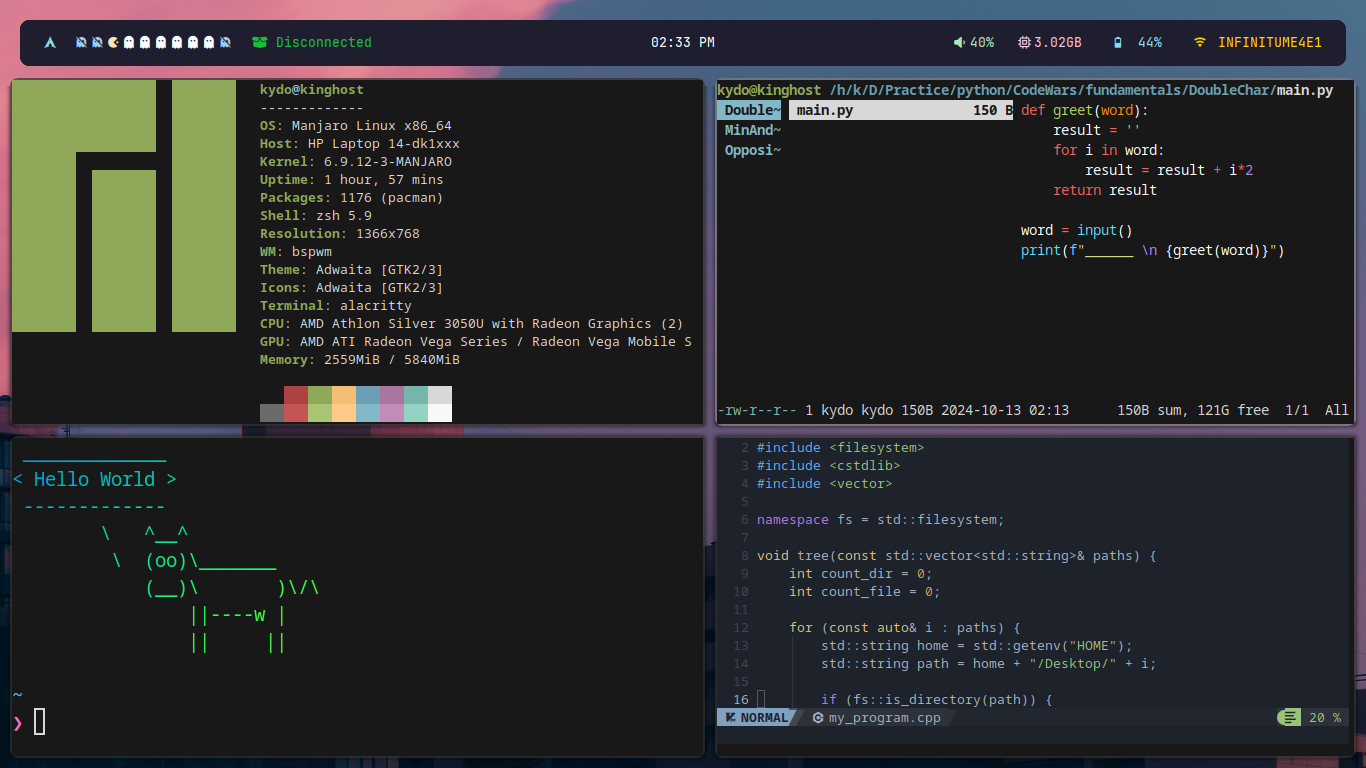
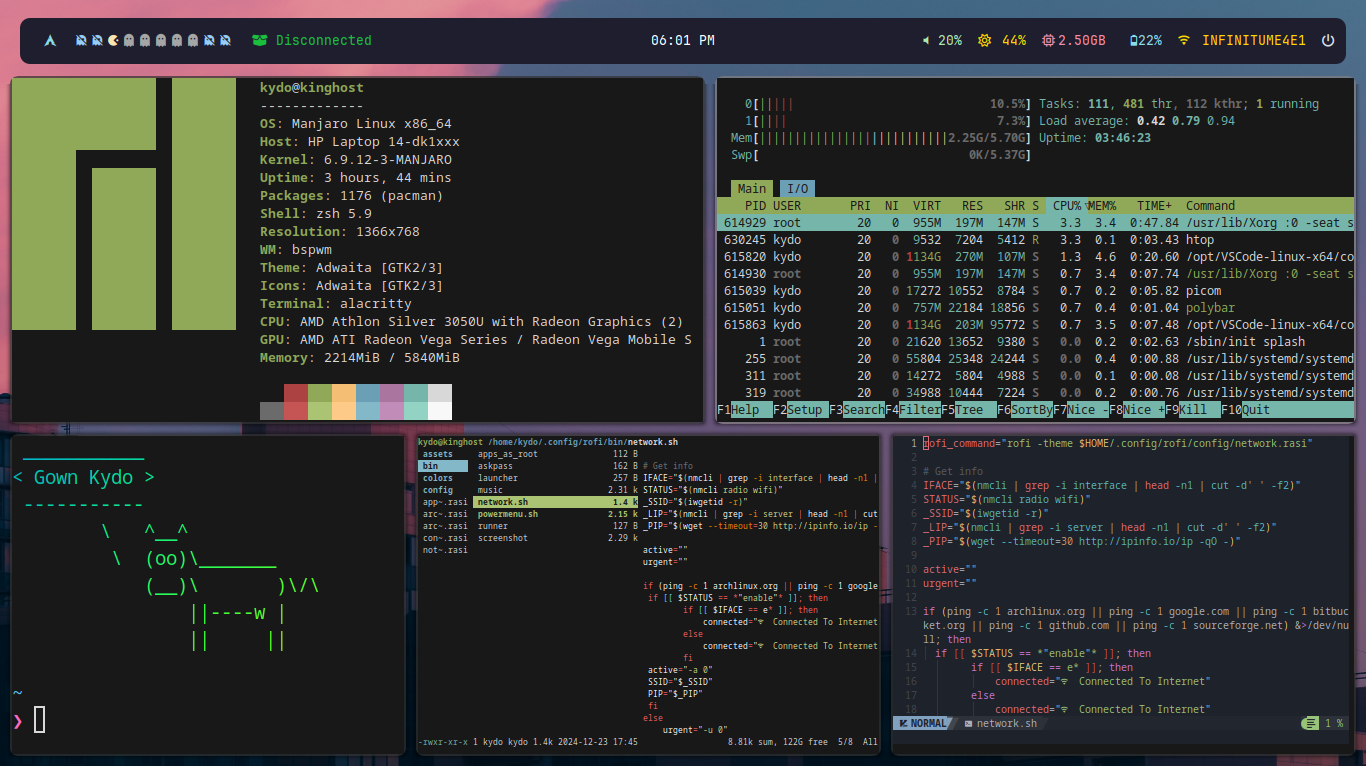
update README and screenshots

diff --git a/README.md b/README.md
@@ -42,20 +42,24 @@ After this we will execute the file and reboot the system.
 * ranger
 * alacrity
 * lolcat
+* htop
 
 ```bash
-bspwm sxhkd polybar rofi i3lock amixer zsh brightnessctl feh picom neofetch cowsay ranger alacrity lolcat
+bspwm sxhkd polybar rofi i3lock amixer zsh brightnessctl feh picom neofetch cowsay ranger alacrity lolcat htop
 
 ```
 <br>
 
 ## Screenshots
 
-### Terminal
+### Desktop
 
-**neofetch, ranger, cowsay with lolcat and nvchad**
+**neofetch, htop, ranger, cowsay with lolcat and nvchad**
 
-![terminal](/screenshots/desktop.png)
+![Desktop](/screenshots/desktop.png)
+
+**Brave, obsidian and bat**
+![Desktop](/screenshots/desktop2.png)
 
 
 ### Polybar
